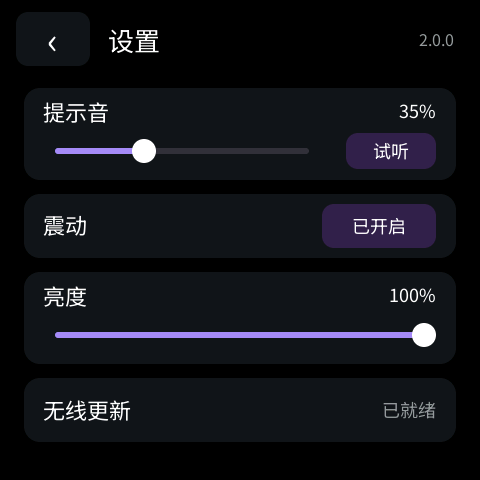
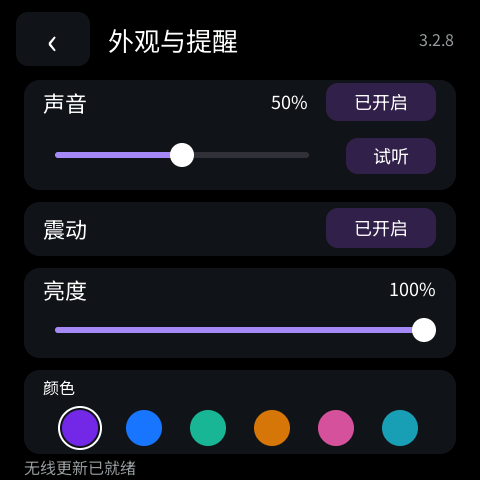
docs: expand feature guide and refresh current UI screenshots

diff --git a/tools/capture_readme.py b/tools/capture_readme.py
@@ -1,0 +1,117 @@
+"""Capture documentation screens from the same native UI used by firmware."""
+import json
+import os
+from pathlib import Path
+import subprocess
+import sys
+import tempfile
+import time
+
+ROOT = Path(__file__).resolve().parents[1]
+WORKSPACE = Path(os.environ.get('MOSAICO_WORKSPACE', ROOT.parent))
+PROJECT = WORKSPACE / 'vendor/esp-mosaico-vibe-legacy-v26.0.1/projects/codex_pet'
+sys.path.insert(0, str(PROJECT / 'managed_components/espressif__esp-gsp/tools/sim_bridge'))
+from rpc_client import connect
+
+OUT = ROOT / 'docs/screenshots'
+OUT.mkdir(parents=True, exist_ok=True)
+
+with tempfile.TemporaryDirectory(prefix='pet-docs-') as work:
+    tmp = Path(work)
+    ready = tmp / 'ready.json'
+    state = tmp / 'state.txt'
+    state.write_text('2')
+    battery = tmp / 'battery.txt'
+    battery.write_text('82')
+    sim = subprocess.Popen([
+        str(Path.home() / '.cache/esp-mosaico/sim/1.5.1/sim'),
+        '--bundle', str(PROJECT / 'build-sim/pet_backend_assets/app.gspb'),
+        '--api-json', str(PROJECT / 'build-sim/pet_backend_assets/bundle_gsp.api.json'),
+        '--headless', '--frames', '0', '--backend-enable', '--backend-required',
+        '--api-listen', 'tcp://127.0.0.1:0', '--ready-file', str(ready),
+    ], stdout=subprocess.DEVNULL, stderr=subprocess.DEVNULL)
+    backend = None
+    try:
+        deadline = time.monotonic() + 15
+        while not ready.exists():
+            if sim.poll() is not None or time.monotonic() > deadline:
+                raise RuntimeError('Simulator did not start')
+            time.sleep(.05)
+        endpoints = json.loads(ready.read_text())
+        backend = subprocess.Popen([
+            str(PROJECT / 'build-sim/pet_backend'), '--endpoint', endpoints['backend'],
+            '--duration-ms', '65000',
+        ], env={**os.environ, 'PET_SIM_STATE_FILE': str(state),
+                'PET_SIM_BATTERY_FILE': str(battery)},
+            stdout=subprocess.DEVNULL, stderr=subprocess.DEVNULL)
+        port = int(endpoints['api'].rsplit(':', 1)[1])
+        with connect(port=port) as api:
+            def call(method, params=None):
+                result = api.call(method, params)
+                if 'error' in result:
+                    raise RuntimeError(result)
+                return result.get('result')
+
+            def capture(name):
+                time.sleep(.7)
+                call('screenshot', {'path': str(OUT / (name + '.png')), 'format': 'png'})
+                print(name, flush=True)
+
+            def tap(name):
+                call('tap_object', {'name': name})
+                time.sleep(1)
+
+            def xy(x, y):
+                call('tap', {'x': x, 'y': y})
+                time.sleep(1)
+
+            time.sleep(2)
+            capture('home-loading')
+            xy(200, 365)
+            capture('tasks')
+            tap('back')
+            state.write_text('7')
+            time.sleep(1)
+            capture('recent')
+            state.write_text('2')
+            time.sleep(1)
+            capture('home')
+            tap('face')
+            capture('voice')
+            tap('voice_back')
+            tap('gear')
+            capture('settings-hub')
+            tap('language')
+            capture('settings-english')
+            tap('hub_back')
+            capture('home-english')
+            tap('face')
+            capture('voice-english')
+            tap('voice_back')
+            tap('gear')
+            tap('language')
+            xy(210, 120)
+            capture('settings')
+            xy(45, 39)
+            xy(210, 205)
+            capture('terminals')
+            xy(105, 445)
+            capture('terminal-pairing')
+            xy(45, 39)
+            xy(45, 39)
+            xy(210, 285)
+            capture('wifi')
+            xy(90, 445)
+            capture('wifi-scan')
+            xy(210, 100)
+            capture('wifi-password')
+            call('quit')
+    finally:
+        for process in (backend, sim):
+            if process and process.poll() is None:
+                process.terminate()
+                try:
+                    process.wait(timeout=5)
+                except subprocess.TimeoutExpired:
+                    process.kill()
+                    process.wait()

diff --git a/firmware/projects/codex_pet/components/app_pet/host/platform_pc.c b/firmware/projects/codex_pet/components/app_pet/host/platform_pc.c
@@ -49,7 +49,7 @@ static int battery_sample(void *ctx) {
     int value=-1;int count=fscanf(f,"%d",&value);fclose(f);
     return count==1?value:-1;
 }
-static app_pet_preferences_t prefs={.volume=50,.brightness=100,.vibration=true,.sound=true,.wireless_ready=true};
+static app_pet_preferences_t prefs={.volume=50,.brightness=100,.vibration=true,.sound=true,.wireless_ready=true,.version="3.2.8"};
 static bool preferences(void *ctx,app_pet_preferences_t *out) { (void)ctx;*out=prefs;return true; }
 static bool action(void *ctx,app_pet_action_t action,unsigned value) {
     (void)ctx;

diff --git a/README.md b/README.md
@@ -2,19 +2,31 @@
 
 **ESP-Mosaico Vibe coding固件** is an open-source Codex desk pet for the ESP-Iris Mosaico (ESP32-S31). It shows live Codex quota, reset countdown, running tasks and recent activity on an animated, code-rendered face. Tap the face to dictate into Codex on a Mac. Data synchronizes over Wi-Fi; USB is only needed for initial provisioning or maintenance.
 
-[中文说明](#中文说明) · [功能详情](#功能详情) · [English](#english) · [Screenshots](#screenshots) · [Source layout](#source-layout)
+[中文说明](#中文说明) · [功能详情](#功能详情) · [页面截图](#页面截图) · [安装与配置](#安装与配置) · [English](#english)
 
-## Screenshots
+## 页面截图
 
-| Home and quota | Task list | Mac voice input |
+以下为 **480 × 480 原生模拟器截图**，使用与设备相同的 GSP 场景和 C 界面逻辑。画面中的额度、任务、Mac 名称和 Wi-Fi 名称都是演示数据；不会公开真实账号、配网密码或语音内容。
+
+| 桌宠主屏：额度、倒计时、任务 | 任务列表：运行与未读状态 | 语音输入：麦克风、波形与发送 |
 | --- | --- | --- |
 | ![Home screen](docs/screenshots/home.png) | ![Task statuses](docs/screenshots/tasks.png) | ![Voice page](docs/screenshots/voice.png) |
 
-| Recent interaction fallback | Settings | Saved Wi-Fi |
+| 最近交互回退 | 设置入口 | 外观与提醒 |
 | --- | --- | --- |
-| ![Recent activity](docs/screenshots/recent.png) | ![Appearance and alerts](docs/screenshots/settings.png) | ![Wi-Fi profiles](docs/screenshots/wifi.png) |
+| ![Recent activity](docs/screenshots/recent.png) | ![Settings hub](docs/screenshots/settings-hub.png) | ![Appearance and alerts](docs/screenshots/settings.png) |
 
-These are screenshots from the project's native simulator using the same scene and portable C UI as the device. Quota figures and task names in screenshots are examples.
+| 中英语言切换 | 多台 Mac 与终端模式 | 已保存的 Wi-Fi |
+| --- | --- | --- |
+| ![English settings](docs/screenshots/settings-english.png) | ![Mac terminals](docs/screenshots/terminals.png) | ![Saved Wi-Fi networks](docs/screenshots/wifi.png) |
+
+| 扫描附近网络 | 屏幕输入 Wi-Fi 密码 | 英文桌宠主屏 |
+| --- | --- | --- |
+| ![Wi-Fi scan](docs/screenshots/wifi-scan.png) | ![On-device password keyboard](docs/screenshots/wifi-password.png) | ![English home](docs/screenshots/home-english.png) |
+
+| 添加另一台 Mac：一次性配对码 | 英文语音页面 | 首次等待数据的状态 |
+| --- | --- | --- |
+| ![Mac pairing code](docs/screenshots/terminal-pairing.png) | ![English voice page](docs/screenshots/voice-english.png) | ![Loading state](docs/screenshots/home-loading.png) |
 
 ## 中文说明
 
@@ -35,6 +47,28 @@ These are screenshots from the project's native simulator using the same scene a
 | 外观与语言 | 六种代码绘制的桌宠颜色：紫、蓝、薄荷绿、橙、粉、青；支持亮度调节。设置页可在中文和 English 之间切换，语言及外观选择保存在设备上。任务名称、Wi-Fi 名称和 Mac 名称保留原始内容。 |
 | 无线运行与更新 | Mac 上传额度和任务状态到中国大陆 HTTPS 中继，设备通过 Wi-Fi 获取状态和服务器时间，无须持续插 USB。Mac 可选择 `.irisfw` 包，经保留的 Vibe/Recovery 流程无线更新应用，并保留设备配置。 |
 
+### 主屏与任务
+
+- **一眼读状态**：顶部显示设置、Wi-Fi、服务器时间和电池百分比；电池图标按电量使用绿、黄、红提示色。中间的机器人由场景和代码绘制，空闲、工作、等待、完成、失败对应不同表情，并有眨眼动画。
+- **额度卡片**：显示当前 Codex 剩余额度、距离重置的天/小时/分钟，以及当前进行中的开发者任务数。点击卡片进入任务列表，任务行用转圈表示运行中，用绿点表示“已完成且结果未读”。
+- **底部详情**：有新完成任务时展示具体任务内容；没有新完成任务时展示最近一次交互。点击详情也能进入任务列表。数据失联时显示等待或离线状态，避免把缓存当作实时结果。
+
+### 语音、提醒与外观
+
+- **语音输入**：点击桌宠表情进入语音页，点击麦克风开始或停止听写。设备显示声音波形和连接、加载、识别状态；Mac 本地 Qwen3-ASR 将文字写入当前 Codex 输入框。设备上的删除键可删字，长按可清空本次文字，发送键提交当前输入。语音页没有第二个文本编辑框。
+- **完成提示**：新完成事件可触发震动及三音提示音。可分别关闭声音或震动，调整音量、亮度，或试听当前音量；声音默认值为 50%。
+- **六种颜色**：紫、蓝、薄荷绿、橙、粉、青。颜色由代码绘制，外观和语言选择保存在设备上，重启后仍生效。
+
+### 网络、终端与固件
+
+- **直接配网**：在设备设置中扫描附近 Wi-Fi，点选网络、用屏幕键盘输入密码并连接；支持重新扫描和手动输入 SSID。最多保存 8 个网络，可查看当前连接、调整首选顺序或删除。连接失败时继续尝试其他已保存网络。
+- **多台 Mac**：每台 Mac 独立上报；设置中可选“自动跟随正在工作的 Mac”“固定终端”或“全部汇总”，并显示终端名称、在线状态和活跃任务数。添加终端使用一次性配对码。汇总任务会去重，不跨账号叠加额度。
+- **固件版本**：设置页可查看更新就绪状态；Mac 可选择兼容的 `.irisfw` 文件更新。设备保留 Recovery 与配置分区。这里的“多个固件”是可选择不同版本更新包，并非设备内同时安装、随时切换多个应用。
+
+### 双语范围
+
+设置 → **语言 / Language** 可切换中文和 English。主屏、状态、任务页、设置、终端、Wi-Fi 配网与语音页的界面文案随之切换；服务器下发的任务标题、用户自定义 Wi-Fi 名称、Mac 名称保持原文。语言选择保存在设备 NVS 中。
+
 **固件模式说明：**设备保留应用固件与 Vibe/Recovery 维护模式，更新时可选择不同版本的 `.irisfw` 包。当前设置页没有“安装并一键切换多个应用固件”的功能，也没有声称可同时运行多套桌宠应用。
 
 主界面、表情、图标和动画由代码及 GSP 场景生成，设备不接收整屏图片流。配网、终端选择和外观设置的更多行为见[多 Mac 与 Wi-Fi 设计及验证](docs/multi-mac-3.0.1.md)。
@@ -48,11 +82,15 @@ Mosaico mic ── local-network TLS audio ──> Mac local Qwen3-ASR ──> C
 
 语音音频与识别文字不经过业务中继。服务器地址、令牌、Wi-Fi 密码、Mac 私钥和用户数据均不随源码发布。公开源码需要自行配置自己的服务器和本机模型。
 
-### 硬件与构建
+## 安装与配置
 
 目标硬件为 **ESP-Iris Mosaico，ESP32-S31**，不是通用 ESP32-S3 开发板。固件采用 ESP-IDF 固定版本 `7b9cc1ac79f865983f59bb8ff3ff43eb74ff1dbe`、ESP-Mosaico 官方工作区及 GSP 原生模拟器。先按[依赖说明](docs/dependencies.md)准备上游组件，再生成场景、运行测试和构建。设备更新必须使用 `python mosaico.py iris system-update` 的官方流程；保留 Recovery、NVS 和原有分区，不使用全片擦除。
 
-可从 [固件源码](firmware/projects/codex_pet)、[Mac 数据采集与语音服务](companion)、[中继服务](server)、[测试](tests) 和 [详细语音设计](docs/VOICE-INPUT.md) 开始阅读。当前设备实测版本为 **3.2.7**。模拟器截图与自动测试不能代替另一台 Mac 或另一种路由器上的实机验收。
+1. 按[依赖说明](docs/dependencies.md)准备官方 ESP-Mosaico Vibe 工作区和固定版本工具链，将[固件源码](firmware/projects/codex_pet)作为 `projects/codex_pet` 应用使用。
+2. 配置自己的中国大陆 HTTPS 中继，并在 Mac 上安装[采集与语音服务](companion)。服务器地址、令牌和本地模型路径需按本机环境设置；仓库不附带在线服务凭据。
+3. 使用 `python mosaico.py iris system-update --project projects/codex_pet` 安装固件。不要直接全片擦写。设备启动后在设置中扫描 Wi-Fi，并按需要选择终端、语言、颜色和提醒方式。
+
+可继续阅读[数据与多 Mac 设计](docs/multi-mac-3.0.1.md)、[详细语音设计](docs/VOICE-INPUT.md)、[中继服务](server)、[测试](tests)和[验证记录](docs/validation.md)。**3.2.8** 已在同一台 ESP-Iris Mosaico 上通过官方 System Update 写入，设备重启后回报 3.2.8；截图来自模拟器。另一台 Mac、另一种路由器和英文页面的实屏触控仍需分别验收。
 
 ## English
 

diff --git a/docs/validation.md b/docs/validation.md
@@ -1,42 +1,17 @@
-# Validation and installation status
+# 验证记录 / Validation
 
-## Completed
+## 2026-11-09：固件 3.2.8
 
-- Firmware 1.0.0 compiled for ESP32-S31 with the exact pinned ESP-IDF revision.
-- Final System Update package built and inspected by the official Mosaico CLI.
[1 lines of base64/hex data omitted]
-  Contains partition table, main application and UI resource image; no Vibe Mode,
-  sysmeta, NVS or Core Dump image. Requires Vibe Mode >=0.2.0.
-- Mac companion reads real signed-in Codex allowance, reset timestamp, active
-  turn boundaries and explicit recent completion timestamps. Current desktop
-  tasks were observed through their local rollouts without global config changes.
-- Eight Python behavior tests passed: lifecycle vs notLoaded, completion while
-  another task runs, expiry, waiting-input correlation, stale/malformed tails,
-  weekly allowance, failure and manual stop semantics.
-- Shared native C UI compiled and ran in GSP simulator. Actual face tap and back
-  input, working/waiting/completed/failed/offline state changes, blink animation,
-  first-frame title and blue-marker visibility were exercised. Images are under
-  `design/simulator`; numbers/titles there are test data, not a physical device capture.
+- **目标设备**：ESP-Iris Mosaico，ESP32-S31，Device ID `4553502d4952495301001c2904d0a33a`，通过 Mac 的 USB Highspeed 连接。
+- **构建**：使用固定 ESP-IDF 修订 `7b9cc1ac79f865983f59bb8ff3ff43eb74ff1dbe` 构建 3.2.8。官方 `iris system-update` 重新生成包含应用、分区表和 GSP UI 资源的 `.irisfw` 包。
+- **写入**：`python mosaico.py iris system-update --project projects/codex_pet --device-id 4553502d4952495301001c2904d0a33a` 回报 `iris system-update: succeeded`，并回报目标固件与系统分区健康。未直接刷写或擦除整片闪存。
+- **设备读回**：更新前应用版本 3.2.7、Boot ID `14930927598924319032`；更新后同一 Device ID 回报应用版本 **3.2.8**、新的 Boot ID `12954969968245731427`、`firmware_mode=normal`、无 crash-loop 标记。
+- **界面截图**：[截图目录](screenshots)为 480 × 480 原生 GSP 模拟器生成。主屏、任务、语音、设置、语言切换、终端和 Wi-Fi 页面已重新截取，使用演示数据。截图不是实物照片，也不证明实机触控或联网状态。
 
-## Still pending: physical installation and acceptance
+## 仍需实物验收
 
-USB discovery sees `ESP-Iris Mosaico english_voice`, VID/PID 303A:4002,
-`/dev/cu.usbmodem101`. New tools cannot classify its CDC control/data role and
-reject it before the live handshake. This is compatible with an older interface,
-but no live firmware version, Device ID or Boot ID has been established.
+- 在实物屏幕上切换中文与 English，重启后确认语言保留；逐页检查文字是否截断。
+- 在当前 Wi-Fi 上观察一次真实的 Mac 任务与额度同步、完成提醒和语音输入。
+- 若需支持更多电脑或路由器，还应分别在第二台 Mac 与另一种 Wi-Fi 环境中验证配对和自动重连。
 
-Official `recover --dry-run` explicitly requires manual ROM Download Mode:
-power off, hold Boot (left of USB-C), power on, release Boot after entry.
-The connected application is not ROM mode. There is no active write operation,
-and no firmware or device data has been written by this task.
-
-Next: detect ROM identity, apply the reviewed base through `mosaico.py recover`,
-verify live Vibe Mode identity/version/ABI, install the prepared application through
-`iris system-update`, then verify the same identity, new Boot ID, healthy state,
-real screen capture, actual Codex data updates, touch and reconnect behavior.
-Do not claim device completion from this build or the simulator alone.
-
-Logs:
-- Firmware build: vendor/esp-mosaico-vibe/projects/codex_pet/.codex-runs/idf-low-noise-build/20261101-235735-build-32117/raw.log
-- Final bundle/failed device connection: vendor/esp-mosaico-vibe/.codex-runs/mosaico/20261101T160304Z-system-update/raw.log
-- Recovery preflight: vendor/esp-mosaico-vibe/.codex-runs/mosaico/20261101T155429Z-recover/raw.log
+电脑检测到 USB 端口和模拟器运行通过，并不等同于上述真实使用场景已经验收。
